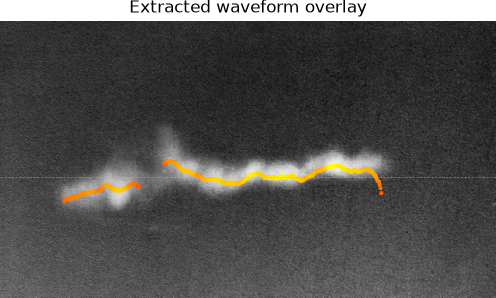
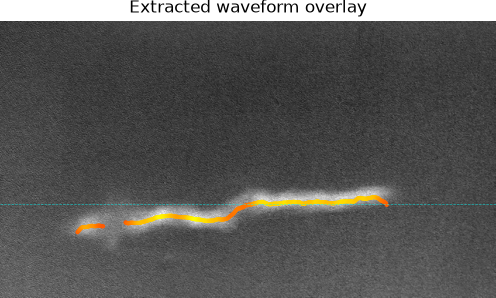
feat: end-to-end CLI pipeline (Epic 7)
- cli.py: wave-from-video <video> runs the full pipeline (overlay, npz,
  waveform plot, spatial.wav, temporal.wav); picks the strongest-wiggle
  frame as representative
- scripts/run_pipeline.sh wrapper
- store 2D arrays as float32 in the npz (7.5MB)
- commit sample outputs as deliverables
- CLI integration test on 12 real frames

Full run: 2642 frames in ~45s. Verified: 21 tests pass, ruff clean.

Claude-Session: https://claude.ai/code/session_012bvPA7yRGAQDkGaMuxukC7

diff --git a/src/wave_from_video/cli.py b/src/wave_from_video/cli.py
@@ -1,0 +1,101 @@
+"""Command-line entry point: video -> overlay + waveform data files.
+
+    wave-from-video data/IMG_4767_2.MOV
+
+Runs the full pipeline and writes (into ``--out``, default ``output/``):
+- ``overlay.png``    — extracted waveform on the representative frame
+- ``waveform.npz``   — all arrays + metadata for notebook rendering
+- ``waveform.png``   — spatial + temporal waveform plot
+- ``spatial.wav``    — representative spatial trace as audio
+- ``temporal.wav``   — temporal envelope as audio
+"""
+
+from __future__ import annotations
+
+import argparse
+from pathlib import Path
+
+import numpy as np
+
+from .extract import band_contrast, extract_waveform
+from .io_video import read_frame
+from .render import (
+    render_overlay,
+    render_waveform_plot,
+    save_waveform_npz,
+    signal_to_wav,
+)
+from .temporal import REDUCERS, analyze_video
+
+
+def run(
+    video: str | Path,
+    out_dir: str | Path = "output",
+    *,
+    reducer: str = "rms",
+    stride: int = 1,
+    max_frames: int | None = None,
+) -> dict[str, Path]:
+    """Run the full pipeline and return the paths of all written artifacts."""
+    out_dir = Path(out_dir)
+    out_dir.mkdir(parents=True, exist_ok=True)
+
+    temporal = analyze_video(video, reducer=reducer, stride=stride, max_frames=max_frames)
+
+    # Representative frame = the one with the strongest wiggle.
+    rep_idx = int(np.argmax(temporal.envelope))
+    spatial_amplitude = temporal.amplitudes[rep_idx]
+    spatial_x = np.arange(spatial_amplitude.size)
+
+    # Overlay drawn on the actual representative frame.
+    rep_gray = read_frame(video, rep_idx * stride, gray=True)
+    rep_wf = extract_waveform(rep_gray)
+    contrast = band_contrast(rep_gray, rep_wf)
+
+    paths = {
+        "overlay": render_overlay(
+            rep_gray, rep_wf, out_dir / "overlay.png", title="Extracted waveform overlay"
+        ),
+        "npz": save_waveform_npz(
+            out_dir / "waveform.npz",
+            spatial_x=spatial_x,
+            spatial_amplitude=spatial_amplitude,
+            temporal=temporal,
+        ),
+        "waveform_plot": render_waveform_plot(
+            out_dir / "waveform.png",
+            spatial_x=spatial_x,
+            spatial_amplitude=spatial_amplitude,
+            envelope=temporal.envelope,
+            fps=temporal.fps,
+        ),
+        "spatial_wav": signal_to_wav(spatial_amplitude, out_dir / "spatial.wav"),
+        "temporal_wav": signal_to_wav(temporal.envelope, out_dir / "temporal.wav"),
+    }
+
+    print(f"processed {temporal.envelope.size} frames (stride={stride}, reducer={reducer})")
+    print(f"representative frame index: {rep_idx * stride}  band delta: {contrast['delta']:.1f}")
+    for name, path in paths.items():
+        print(f"  {name}: {path}")
+    return paths
+
+
+def main(argv: list[str] | None = None) -> None:
+    parser = argparse.ArgumentParser(description="Extract a waveform from a water-reflection video.")
+    parser.add_argument("video", help="path to the source video")
+    parser.add_argument("--out", default="output", help="output directory")
+    parser.add_argument("--reducer", default="rms", choices=sorted(REDUCERS))
+    parser.add_argument("--stride", type=int, default=1, help="process every Nth frame")
+    parser.add_argument("--max-frames", type=int, default=None, help="cap processed frames")
+    args = parser.parse_args(argv)
+    run(
+        args.video,
+        args.out,
+        reducer=args.reducer,
+        stride=args.stride,
+        max_frames=args.max_frames,
+    )
+
+
+if __name__ == "__main__":
+    main()

diff --git a/tests/test_cli.py b/tests/test_cli.py
@@ -1,0 +1,17 @@
+"""End-to-end CLI test on a few real frames."""
+
+import numpy as np
+
+from wave_from_video.cli import run
+
+
+def test_run_pipeline_writes_all_outputs(video_path, tmp_path):
+    paths = run(video_path, tmp_path, reducer="rms", stride=1, max_frames=12)
+    expected = {"overlay", "npz", "waveform_plot", "spatial_wav", "temporal_wav"}
+    assert set(paths) == expected
+    for path in paths.values():
+        assert path.exists() and path.stat().st_size > 0
+
+    data = np.load(paths["npz"])
+    assert data["amplitudes"].shape[0] == 12
+    assert data["envelope"].shape == (12,)

diff --git a/src/wave_from_video/render.py b/src/wave_from_video/render.py
@@ -102,8 +102,10 @@ def save_waveform_npz(
         out_path,
         spatial_x=spatial_x,
         spatial_amplitude=spatial_amplitude,
-        centerlines=temporal.centerlines,
-        amplitudes=temporal.amplitudes,
+        # 2-D raw arrays stored as float32 to keep the file small; the 1-D
+        # signals that drive plots/audio stay float64.
+        centerlines=temporal.centerlines.astype(np.float32),
+        amplitudes=temporal.amplitudes.astype(np.float32),
         envelope=temporal.envelope,
         fps=temporal.fps,
         stride=temporal.stride,

diff --git a/todo.md b/todo.md
@@ -51,8 +51,9 @@ Each epic ends with: **tests + validation pass → commit → push to `main`**.
 - **Validation:** `jupyter nbconvert --execute` exits 0 with outputs.
 
 ## Epic 7 — CLI end-to-end
-- [ ] 7.1 `cli.py` + `wave-from-video` entry point; `scripts/run_pipeline.sh`
-- **Validation:** run on real `.MOV` → overlay + npz + wav all exist, non-empty.
+- [x] 7.1 `cli.py` + `wave-from-video` entry point; `scripts/run_pipeline.sh`
+- **Validation:** full run on real `.MOV` → 2642 frames in 45s; overlay + npz +
+  waveform plot + 2 wavs all written, non-empty; CLI test on 12 frames. ✅
 
 ## Epic 8 — Docs & session continuity
 - [ ] 8.1 README usage section